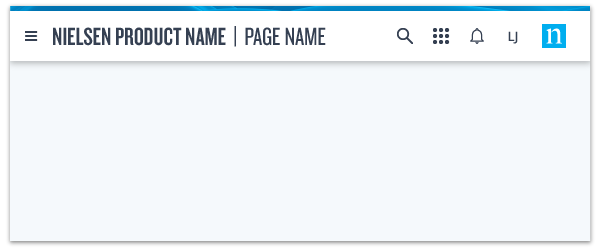
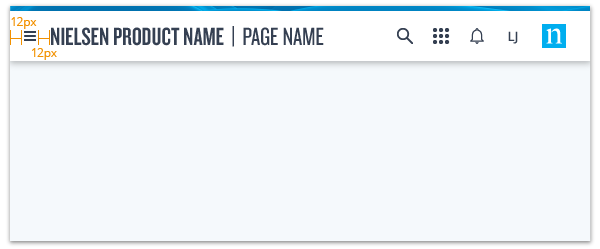
Add clarifications to existing guidelines.

Changed region(s): [[0.0, 0.1124, 0.54, 0.253], [0.0, 0.0562, 0.06, 0.1124]]

diff --git a/button_flat.php b/button_flat.php
@@ -40,21 +40,21 @@
 								<!-- -->
 								<dt>Default</dt>
 								<dd>Height: <span class="pxrem">36px</span></dd>
-								<dd>Padding: <span class="pxrem">12px</span></dd>
+								<dd>Padding L/R: <span class="pxrem">12px</span></dd>
 								<dd>Margin: <span class="pxrem">12px</span></dd>
 								<dd>Text Size: 15px (11pt)</dd>
 								<dd>Weight: 600</dd>
 								<!-- -->
 								<dt>Large</dt>
 								<dd>Height: <span class="pxrem">64px</span></dd>
-								<dd>Padding: <span class="pxrem">24px</span></dd>
+								<dd>Padding L/R: <span class="pxrem">24px</span></dd>
 								<dd>Margin: <span class="pxrem">20px</span></dd>
 								<dd>Text Size: 30px (23pt)</dd>
 								<dd>Weight: 400</dd>
 								<!-- -->
 								<dt>Small</dt>
 								<dd>Height: <span class="pxrem">28px</span></dd>
-								<dd>Padding: <span class="pxrem">12px</span></dd>
+								<dd>Padding L/R: <span class="pxrem">12px</span></dd>
 								<dd>Margin: <span class="pxrem">10px</span></dd>
 								<dd>Text Size: 13px (10pt)</dd>
 								<dd>Weight: 600</dd>

diff --git a/button_raised.php b/button_raised.php
@@ -42,21 +42,21 @@
 								<!-- -->
 								<dt>Default</dt>
 								<dd>Height: <span class="pxrem">36px</span></dd>
-								<dd>Padding: <span class="pxrem">12px</span></dd>
+								<dd>Padding L/R: <span class="pxrem">12px</span></dd>
 								<dd>Margin: <span class="pxrem">12px</span></dd>
 								<dd>Text Size: 15px (11pt)</dd>
 								<dd>Weight: 600</dd>
 								<!-- -->
 								<dt>Large</dt>
 								<dd>Height: <span class="pxrem">64px</span></dd>
-								<dd>Padding: <span class="pxrem">24px</span></dd>
+								<dd>Padding L/R: <span class="pxrem">24px</span></dd>
 								<dd>Margin: <span class="pxrem">20px</span></dd>
 								<dd>Text Size: 30px (23pt)</dd>
 								<dd>Weight: 400</dd>
 								<!-- -->
 								<dt>Small</dt>
 								<dd>Height: <span class="pxrem">28px</span></dd>
-								<dd>Padding: <span class="pxrem">12px</span></dd>
+								<dd>Padding L/R: <span class="pxrem">12px</span></dd>
 								<dd>Margin: <span class="pxrem">10px</span></dd>
 								<dd>Text Size: 13px (10pt)</dd>
 								<dd>Weight: 600</dd>

diff --git a/p_app_bar.php b/p_app_bar.php
@@ -35,7 +35,7 @@
 					</dl>
 					<!-- -->
 					<dl class="dl_root">
-						<dt>Container</dt>
+						<dt>App Bar Container</dt>
 						<dd>
 							<dl class="sub">
 								<dt>Data Texture</dt>
@@ -69,6 +69,12 @@
 								<!-- -->
 								<dt>Icons</dt>
 								<dd>See icon component.</dd>
+								<!-- -->
+								<dt>User Initials</dt>
+								<dd>Text Size: 13px (10pt)</dd>
+								<dd>Weight: 600</dd>
+								<dd>Color: <span title="Gray 800" class="theme">#354052</span></dd>
+								<dd>Case: Uppercase</dd>
 								<!-- -->
 								<dt>N Square</dt>
 								<dd>Size: <span class="pxrem">28px</span> x <span class="pxrem">28px</span></dd>
